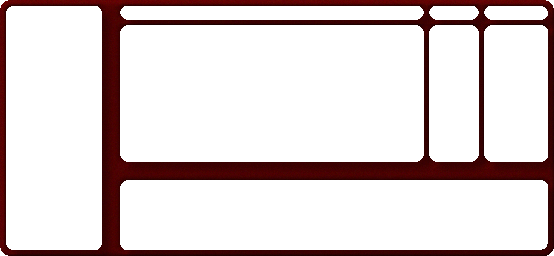
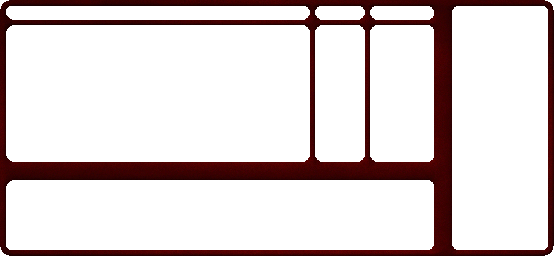
Move the left sidebar in servers list to the right.

Changed region(s): [[0.0, 0.0, 1.0, 1.0], [0.9819, 0.375, 1.0, 0.4062]]

diff --git a/client/src/gui/main.c b/client/src/gui/main.c
@@ -63,8 +63,8 @@ void show_meta_server()
 	server_struct *node;
 	char buf[MAX_BUF];
 
-	x = 25;
-	y = Screensize->y - Bitmaps[BITMAP_SERVERS_BG]->bitmap->h;
+	x = 5;
+	y = Screensize->y - Bitmaps[BITMAP_SERVERS_BG]->bitmap->h - 5;
 
 	/* Background */
 	sprite_blt(Bitmaps[BITMAP_INTRO], 0, 0, NULL, NULL);
@@ -98,10 +98,10 @@ void show_meta_server()
 		last_server_count = server_count;
 
 		/* Create the servers list. */
-		list = list_create(LIST_SERVERS, x + 130, y + 8, 132, 3, 8);
+		list = list_create(LIST_SERVERS, x + 13, y + 8, 132, 3, 8);
  		list->handle_enter_func = list_handle_enter;
-		list_set_column(list, 0, 295, 5, "Server", -1);
-		list_set_column(list, 1, 50, 12, "Port", 1);
+		list_set_column(list, 0, 295, 7, "Server", -1);
+		list_set_column(list, 1, 50, 9, "Port", 1);
 		list_set_column(list, 2, 50, 7, "Players", 1);
 
 		/* Add the servers to the list. */
@@ -137,21 +137,21 @@ void show_meta_server()
 		SDL_Rect box;
 
 		snprintf(buf, sizeof(buf), "Version: %s", node->version);
-		string_blt_shadow(ScreenSurface, &SystemFont, buf, x + 130, y + 185, COLOR_HGOLD, COLOR_BLACK, 0, NULL);
+		string_blt_shadow(ScreenSurface, &SystemFont, buf, x + 13, y + 185, COLOR_HGOLD, COLOR_BLACK, 0, NULL);
 
 		box.w = 410;
 		box.h = 48;
-		string_blt(ScreenSurface, &SystemFont, node->desc, x + 130, y + 197, COLOR_WHITE, TEXT_WORD_WRAP | TEXT_MARKUP, &box);
+		string_blt(ScreenSurface, &SystemFont, node->desc, x + 13, y + 197, COLOR_WHITE, TEXT_WORD_WRAP | TEXT_MARKUP, &box);
 	}
 
 	/* Show whether we are connecting to the metaserver or not. */
 	if (ms_connecting(-1))
 	{
-		string_blt_shadow(ScreenSurface, &SystemFont, "Connecting to metaserver, please wait...", x + 245, y + 8, COLOR_HGOLD, COLOR_BLACK, 0, NULL);
+		string_blt_shadow(ScreenSurface, &SystemFont, "Connecting to metaserver, please wait...", x + 128, y + 8, COLOR_HGOLD, COLOR_BLACK, 0, NULL);
 	}
 	else
 	{
-		string_blt_shadow(ScreenSurface, &SystemFont, "Select a server.", x + 347, y + 8, COLOR_GREEN, COLOR_BLACK, 0, NULL);
+		string_blt_shadow(ScreenSurface, &SystemFont, "Select a server.", x + 230, y + 8, COLOR_GREEN, COLOR_BLACK, 0, NULL);
 	}
 
 	sprite_blt(Bitmaps[BITMAP_SERVERS_BG_OVER], x, y, NULL, NULL);
